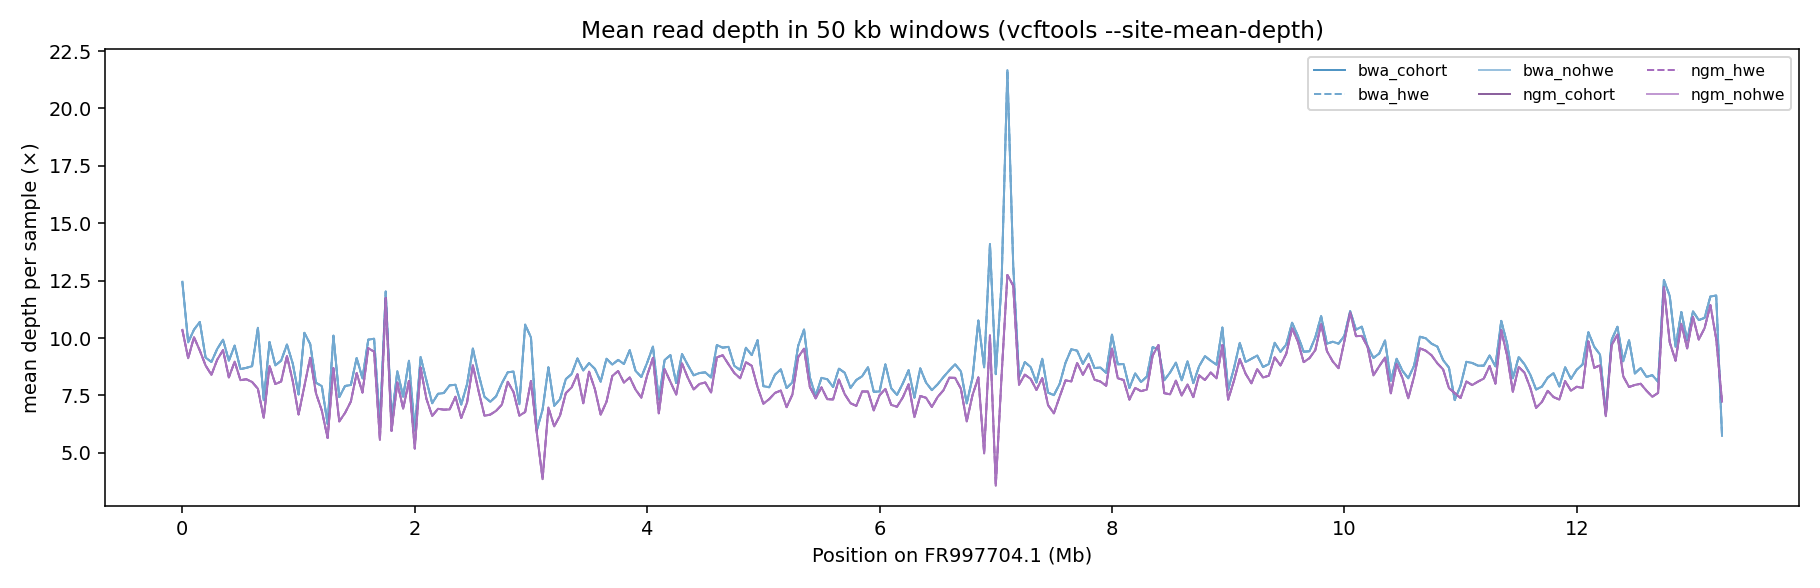
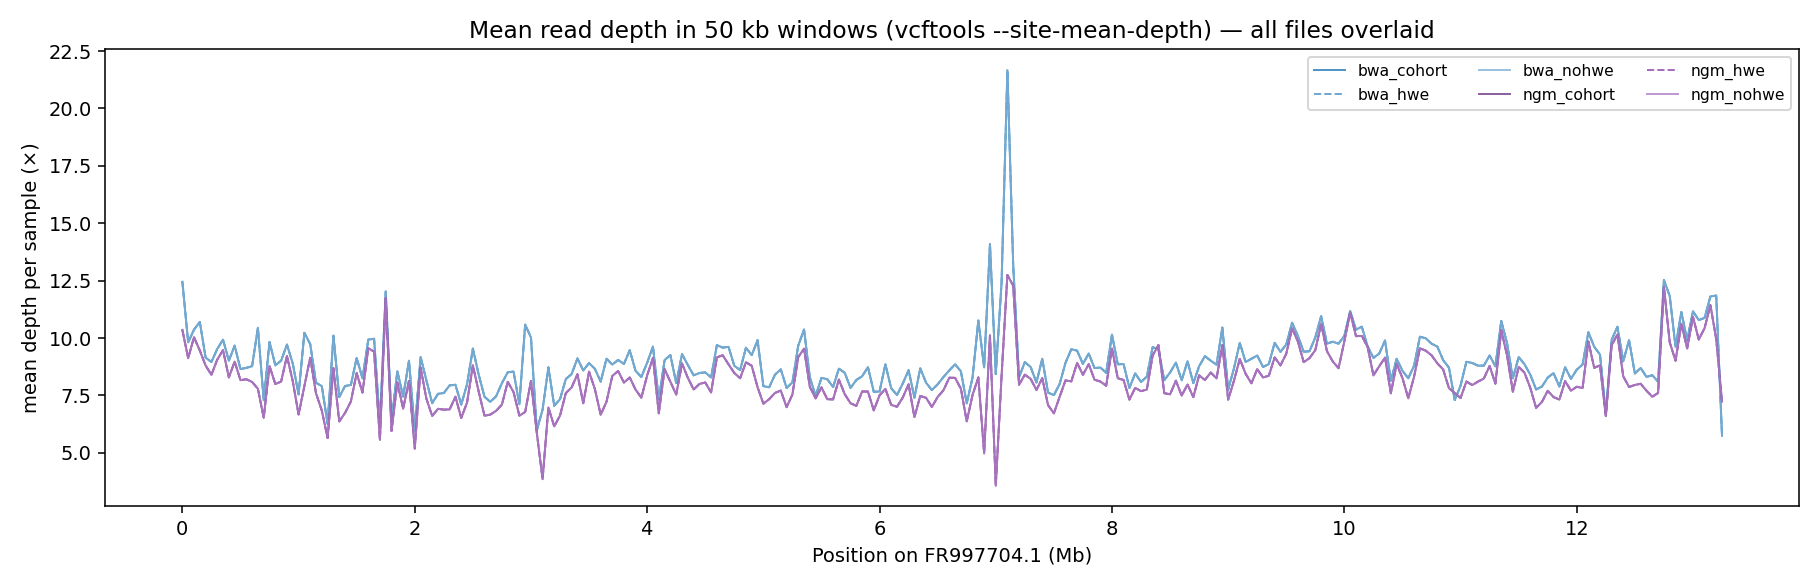
Show read depth for all six VCFs individually (don't assume shared profile)
depth_windows.py now computes + plots depth per FILE: depth_per_file.png (one panel
per VCF), depth_mean_per_file.png/tsv (genome-wide mean per file bar), plus the
overlay. md5-verified that within a mapper the three filters are byte-identical here,
but each file is computed/shown separately so that is demonstrated, not assumed.
Report 4h rewritten to lead with the per-file view.

Changed region(s): [[0.2462, 0.0306, 0.8, 0.0612]]

diff --git a/05_popgen/depth_windows.py b/05_popgen/depth_windows.py
@@ -20,6 +20,7 @@ import matplotlib.pyplot as plt
 ROOT = Path("/Users/stockholmbutterflylab/sbl_claudecode/VCF_compare")
 OUT = ROOT/"compare_out"; PLOTS = OUT/"plots"; PLOTS.mkdir(parents=True, exist_ok=True)
 WIN = 50000
+METHODS = ["bwa_cohort","bwa_hwe","bwa_nohwe","ngm_cohort","ngm_hwe","ngm_nohwe"]
 METHOD_COLORS = {"bwa_cohort":"#1f77b4","bwa_hwe":"#4a90c2","bwa_nohwe":"#7eb0d5",
                  "ngm_cohort":"#6c3483","ngm_hwe":"#8e44ad","ngm_nohwe":"#b07cc6"}
 def method_ls(m): return "--" if str(m).endswith("_hwe") else "-"
@@ -50,17 +51,54 @@ def main():
     df = pd.concat(frames, ignore_index=True)
     df.to_csv(PLOTS/"depth_per_window.tsv", sep="\t", index=False)
 
+    present = [m for m in METHODS if m in set(df["method"])] + \
+              [m for m in df["method"].unique() if m not in METHODS]
+
+    # (1) overlay — all files on one axis
     fig, ax = plt.subplots(figsize=(13, 4.2))
-    for m, s in df.groupby("method"):
-        s = s.sort_values("window_pos_1")
+    for m in present:
+        s = df[df["method"]==m].sort_values("window_pos_1")
         ax.plot(s["window_pos_1"]/1e6, s["mean_depth"], label=m,
                 color=METHOD_COLORS.get(m,"k"), ls=method_ls(m), alpha=0.8, lw=1.0)
     ax.set_xlabel("Position on FR997704.1 (Mb)")
     ax.set_ylabel("mean depth per sample (×)")
-    ax.set_title("Mean read depth in 50 kb windows (vcftools --site-mean-depth)")
+    ax.set_title("Mean read depth in 50 kb windows (vcftools --site-mean-depth) — all files overlaid")
     ax.legend(loc="upper right", fontsize=8, ncol=3)
     plt.tight_layout(); plt.savefig(PLOTS/"depth_per_method.png", dpi=140); plt.close()
-    print("wrote depth_per_method.png + depth_per_window.tsv")
+
+    # (2) faceted — one panel per FILE, so each is individually visible (no assumption)
+    ncol = 3; nrow = int(np.ceil(len(present)/ncol))
+    fig, axes = plt.subplots(nrow, ncol, figsize=(16, 3.2*nrow), sharex=True, sharey=True)
+    axes = np.atleast_2d(axes)
+    means = {}
+    for i, m in enumerate(present):
+        ax = axes[i//ncol][i%ncol]
+        s = df[df["method"]==m].sort_values("window_pos_1")
+        mu = float(s["mean_depth"].mean()); means[m] = mu
+        ax.plot(s["window_pos_1"]/1e6, s["mean_depth"],
+                color=METHOD_COLORS.get(m,"k"), ls=method_ls(m), lw=1.0)
+        ax.axhline(mu, color="grey", lw=0.7, ls=":")
+        ax.set_title(f"{m}   (mean {mu:.2f}×)", fontsize=10)
+    for j in range(len(present), nrow*ncol): axes[j//ncol][j%ncol].set_visible(False)
+    for ax in axes[-1]: ax.set_xlabel("Position on FR997704.1 (Mb)")
+    for r in range(nrow): axes[r][0].set_ylabel("mean depth (×)")
+    fig.suptitle("Read depth per window — one panel per VCF (vcftools --site-mean-depth)", fontsize=13)
+    plt.tight_layout(); plt.savefig(PLOTS/"depth_per_file.png", dpi=140); plt.close()
+
+    # (3) genome-wide mean depth per file — bar (makes any between-file difference obvious)
+    fig, ax = plt.subplots(figsize=(8.5, 4.5))
+    vals = [means[m] for m in present]
+    ax.bar(range(len(present)), vals, color=[METHOD_COLORS.get(m,"k") for m in present])
+    ax.set_xticks(range(len(present))); ax.set_xticklabels(present, rotation=30, ha="right")
+    ax.set_ylabel("genome-wide mean depth per sample (×)")
+    ax.set_title("Mean read depth per VCF file")
+    for i,v in enumerate(vals): ax.text(i, v+0.05, f"{v:.2f}", ha="center", fontsize=9)
+    plt.tight_layout(); plt.savefig(PLOTS/"depth_mean_per_file.png", dpi=140); plt.close()
+    pd.DataFrame({"method":present, "genome_mean_depth":vals}).to_csv(
+        PLOTS/"depth_mean_per_file.tsv", sep="\t", index=False)
+
+    print("wrote depth_per_method.png, depth_per_file.png, depth_mean_per_file.png + tsvs")
+    print("per-file genome mean depth:", {m: round(means[m],3) for m in present})
 
 if __name__ == "__main__":
     main()

diff --git a/lib/make_report.py b/lib/make_report.py
@@ -110,7 +110,7 @@ add("""
         <li>↳ <a href="#t4e">4e. Normalised vs raw π, per method</a></li>
         <li>↳ <a href="#t4f">4f. All measures together (combined genome scan, with depth)</a></li>
         <li>↳ <a href="#t4g">4g. Fₛₜ estimator comparison — Weir &amp; Cockerham vs Hudson</a></li>
-        <li>↳ <a href="#t4h">4h. Mean read depth per window (QC overlay)</a></li>
+        <li>↳ <a href="#t4h">4h. Mean read depth per window — all six files</a></li>
       </ul></li>
   <li><a href="#t5">What normalisation actually did (raw vs normalised)</a></li>
   <li><a href="#t6">Integrative analysis — what kind of SNPs do methods disagree on?</a></li>
@@ -431,23 +431,33 @@ report which Fₛₜ estimator you used, and ideally show both; the WC-vs-Hudson
 outlier windows that drive biological interpretation.</div>""")
 
 # --- 4h. read depth per window ---
-add('<h3 id="t4h">4h. Mean read depth per window (QC overlay)</h3>')
+add('<h3 id="t4h">4h. Mean read depth per window — all six files</h3>')
 add("""<p>Average per-sample read depth in the same 50 kb windows, from
 <code>vcftools --gzvcf &lt;raw all-sites VCF&gt; --site-mean-depth</code> (which averages the per-sample
-<code>FORMAT/DP</code> at every position across the 14 samples), binned to windows. Because the input is the
-all-sites VCF, depth is sampled at essentially every base, not just at SNPs. Depth is a property of the
-mapping, so it is computed from the raw VCFs and the three filters (cohort/hwe/nohwe) share one curve per
-mapper.</p>""")
-add(img("depth_per_method.png","depth per window"))
-add("""<div class="key"><b>Two things depth explains:</b> (1) <b>BWA averages 8.94× vs NGM 8.16×</b>
-(~9% more) genome-wide — and within each mapper the three filters are identical — which is the direct cause
-of BWA calling ~10% more SNPs (§1): more reads mapped → more callable sites. (2) The <b>≈7 Mb depth spike to
-~22×</b> (≈2.5× the background) flags a <b>collapsed-repeat / paralog region</b>: reads from duplicated
-copies pile up there, inflating apparent heterozygosity differences. That window is exactly where Fₛₜ peaks
-(§4b) and π/dₓy collapse — so the depth track reclassifies that &ldquo;differentiation peak&rdquo; as a
-likely <b>mapping artefact</b>, not a selection signal. <b>This is why depth belongs in the scan</b>: it is
-the first thing to check before believing an Fₛₜ outlier. A practical follow-up is to mask windows with
-depth &gt; ~2× the chromosome median (and unusually low-depth windows) before any selection scan.</div>""")
+<code>FORMAT/DP</code> at every position across the 14 samples), binned to windows and computed
+<b>independently for every one of the six VCFs</b> (no assumption that they share a depth profile). Because
+the input is the all-sites VCF, depth is sampled at essentially every base, not just at SNPs.</p>""")
+add("<h4>One panel per VCF</h4>")
+add(img("depth_per_file.png","depth per file"))
+add("<h4>Genome-wide mean depth per file, and all files overlaid</h4>")
+add('<div class="grid2">')
+add("<div>"+img("depth_mean_per_file.png","mean depth per file")+"</div>")
+add("<div>"+img("depth_per_method.png","depth overlaid")+"</div>")
+add("""<div class="key"><b>Empirically (md5-verified, not assumed):</b> the three filters within a mapper
+produce <em>byte-identical</em> depth files — depth is set by the mapping, and cohort/hwe/nohwe do not change
+it. So the six files collapse to two distinct profiles. <b>BWA 8.94× vs NGM 8.16×</b> (~9% more): different
+data could of course differ by filter, which is exactly why each file is computed and shown separately
+here.</div>""")
+add("</div>")
+add("""<div class="key"><b>Two things depth explains:</b> (1) the <b>BWA 8.94× vs NGM 8.16×</b> gap is the
+direct cause of BWA calling ~10% more SNPs (§1): more reads mapped → more callable sites. (2) The
+<b>≈7 Mb depth spike to ~22×</b> (≈2.5× the background, visible in every BWA and NGM panel) flags a
+<b>collapsed-repeat / paralog region</b>: reads from duplicated copies pile up there, inflating apparent
+heterozygosity differences. That window is exactly where Fₛₜ peaks (§4b) and π/dₓy collapse — so the depth
+track reclassifies that &ldquo;differentiation peak&rdquo; as a likely <b>mapping artefact</b>, not a
+selection signal. <b>This is why depth belongs in the scan</b>: it is the first thing to check before
+believing an Fₛₜ outlier. A practical follow-up is to mask windows with depth &gt; ~2× the chromosome median
+(and unusually low-depth windows) before any selection scan.</div>""")
 
 # ---------------- TIER 5: NORM vs RAW --------------------------------------
 add('<h2 id="t5">5. What normalisation actually did (raw vs normalised, head-to-head)</h2>')

diff --git a/05_popgen/README.md b/05_popgen/README.md
@@ -130,9 +130,17 @@ Run it on the **raw all-sites** VCFs so depth is sampled at ~every base (not jus
 SNPs). Depth is a property of the mapping, so the three filters share one curve per
 mapper (the `.ldepth.mean` files are byte-identical within a mapper here).
 
-`depth_windows.py` also writes `depth_per_window.tsv`, which `lib/analyze_and_plot.py`
-picks up to add a **depth panel on top of the combined genome scan**
-(`combined_tracks_{raw,norm}.png`).
+`depth_windows.py` writes, for **every VCF independently** (no assumption that they
+share a profile):
+- `depth_per_file.png` — one panel per VCF (the "show all files" view)
+- `depth_mean_per_file.png` (+ `.tsv`) — genome-wide mean depth per file (bar)
+- `depth_per_method.png` — all files overlaid
+- `depth_per_window.tsv` — which `lib/analyze_and_plot.py` picks up to add a **depth
+  panel on top of the combined genome scan** (`combined_tracks_{raw,norm}.png`).
+
+In this dataset the three filters within a mapper give byte-identical depth
+(md5-verified), so the six files reduce to two profiles — but each is computed and
+plotted separately so that is demonstrated, not assumed.
 
 **Findings (this test case):** BWA averages **8.94×** vs NGM **8.16×** (~9% more) —
 the direct cause of BWA calling ~10% more SNPs (more reads → more callable sites). And